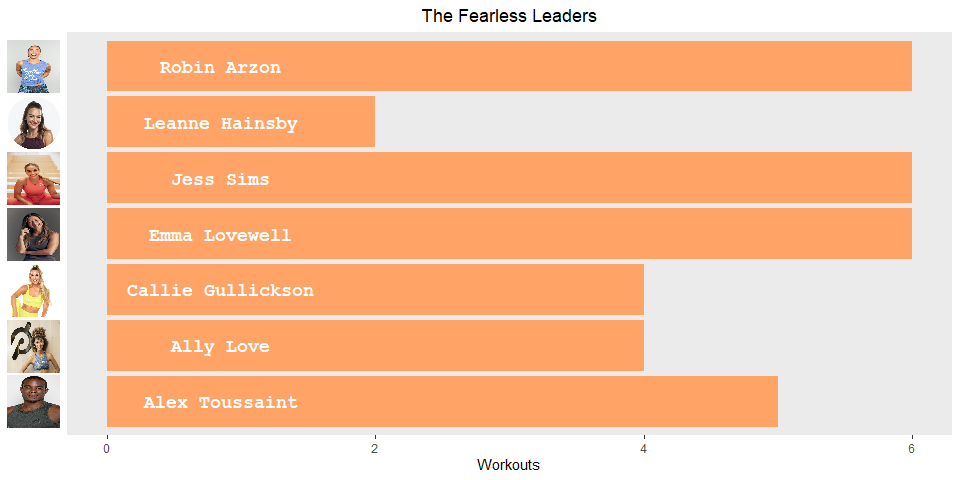
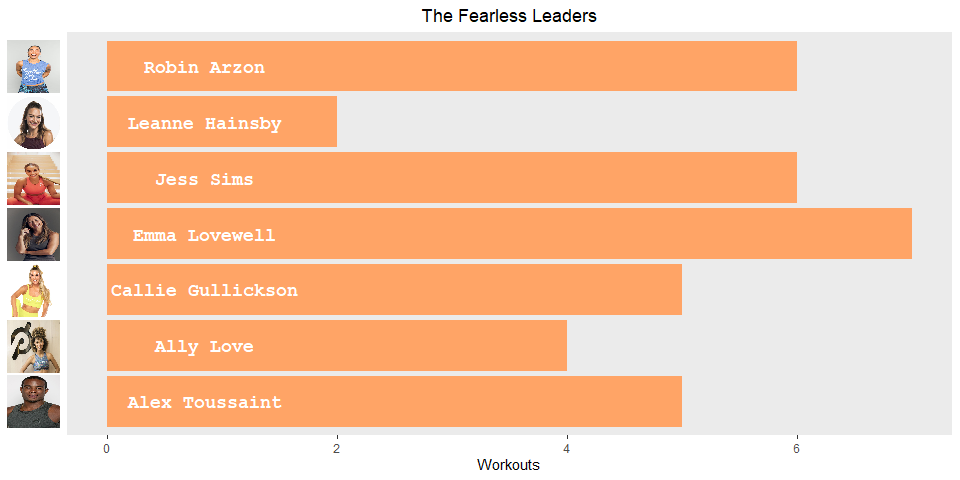
final updates to sweatmas

diff --git a/img/posts/sweatmas/muscles_table.html b/img/posts/sweatmas/muscles_table.html
@@ -2657,11 +2657,11 @@ l.each(u,function(a,b){l.fn.DataTable[a]=b});return u});
 </head>
 <body style="background-color: white;">
 <div id="htmlwidget_container">
-<div id="htmlwidget-c04013377d8eed28ef04" class="datatables html-widget" style="width:100%;height:auto;">
+<div id="htmlwidget-0c30e2e7cc7ed81905db" class="datatables html-widget" style="width:100%;height:auto;">
 
 </div>
 </div>
-<script type="application/json" data-for="htmlwidget-c04013377d8eed28ef04">{"x":{"filter":"none","vertical":false,"data":[["Hamstrings","Glutes","Quads","Calves","Core","Shoulders","Biceps","Triceps","Back","Chest"],[15.0740740740741,14.3333333333333,15.0344827586207,11.2272727272727,13.5666666666667,13.8181818181818,11.4285714285714,10.3333333333333,13.6,11]],"container":"<table class=\"display\">\n  <thead>\n    <tr>\n      <th> <\/th>\n      <th>Average Use (%)<\/th>\n    <\/tr>\n  <\/thead>\n<\/table>","options":{"dom":"t","columnDefs":[{"targets":1,"render":"function(data, type, row, meta) {\n    return type !== 'display' ? data : DTWidget.formatRound(data, 2, 3, \",\", \".\", null);\n  }"},{"className":"dt-right","targets":1},{"orderable":false,"targets":0}],"order":[],"autoWidth":false,"orderClasses":false,"rowCallback":"function(row, data, displayNum, displayIndex, dataIndex) {\nvar value=data[1]; $(this.api().cell(row, 1).node()).css({'background':isNaN(parseFloat(value)) || value <= 10.333333 ? '' : 'linear-gradient(90.000000deg, transparent ' + Math.max(15.074074 - value, 0)/4.740741 * 100 + '%, #D1FBD8 ' + Math.max(15.074074 - value, 0)/4.740741 * 100 + '%)'});\n}"}},"evals":["options.columnDefs.0.render","options.rowCallback"],"jsHooks":[]}</script>
-<script type="application/htmlwidget-sizing" data-for="htmlwidget-c04013377d8eed28ef04">{"viewer":{"width":"100%","height":"auto","padding":15,"fill":true},"browser":{"width":"100%","height":"auto","padding":40,"fill":false}}</script>
+<script type="application/json" data-for="htmlwidget-0c30e2e7cc7ed81905db">{"x":{"filter":"none","vertical":false,"data":[["Hamstrings","Glutes","Quads","Calves","Core","Shoulders","Biceps","Triceps","Back","Chest"],[15.1428571428571,14.4193548387097,15.1,11.2173913043478,13.4838709677419,14.25,11.4285714285714,10.1428571428571,14.5,10.6666666666667]],"container":"<table class=\"display\">\n  <thead>\n    <tr>\n      <th> <\/th>\n      <th>Average Use (%)<\/th>\n    <\/tr>\n  <\/thead>\n<\/table>","options":{"dom":"t","columnDefs":[{"targets":1,"render":"function(data, type, row, meta) {\n    return type !== 'display' ? data : DTWidget.formatRound(data, 2, 3, \",\", \".\", null);\n  }"},{"className":"dt-right","targets":1},{"orderable":false,"targets":0}],"order":[],"autoWidth":false,"orderClasses":false,"rowCallback":"function(row, data, displayNum, displayIndex, dataIndex) {\nvar value=data[1]; $(this.api().cell(row, 1).node()).css({'background':isNaN(parseFloat(value)) || value <= 10.142857 ? '' : 'linear-gradient(90.000000deg, transparent ' + Math.max(15.142857 - value, 0)/5.000000 * 100 + '%, #D1FBD8 ' + Math.max(15.142857 - value, 0)/5.000000 * 100 + '%)'});\n}"}},"evals":["options.columnDefs.0.render","options.rowCallback"],"jsHooks":[]}</script>
+<script type="application/htmlwidget-sizing" data-for="htmlwidget-0c30e2e7cc7ed81905db">{"viewer":{"width":"100%","height":"auto","padding":15,"fill":true},"browser":{"width":"100%","height":"auto","padding":40,"fill":false}}</script>
 </body>
 </html>

diff --git a/_posts/2023-01-01-sweatmas.md b/_posts/2023-01-01-sweatmas.md
@@ -1,9 +1,11 @@
 ---
 layout: post
 title: "Sweatmas 2022"
-subtitle: "25 Days of Sweat, Captured in One Post"
+subtitle: "31 Days of Wrokouts Summarized into One Post"
 background: '/img/posts/sweatmas/sweatmas-bg.jpg'
 ---
+
+
 
 Sweatmas
 ================
@@ -59,7 +61,7 @@ time into a better format.
 
 ***1899-12-30 10:45:00*** changes to ***10:45 AM***
 
-***1899-12-30 19:30:00*** changes to ***7:30 PM***
+***1899-12-30 19:30:00*** changes to ***07:30 PM***
 
 ``` r
 df_drew <- as.data.frame(read_sheet(".../google_sheets_link", sheet = "Drew"))
@@ -80,7 +82,7 @@ talk about the final 11 later on.
 str(df_drew[,1:9])
 ```
 
-    ## 'data.frame':    33 obs. of  9 variables:
+    ## 'data.frame':    35 obs. of  9 variables:
     ##  $ Day          : num  1 2 3 4 5 5 6 7 8 9 ...
     ##  $ Workout_Title: chr  "2000s Ride" "Full Body Strength" "House Ride" "Holiday Ride" ...
     ##  $ Workout_Type : chr  "Cycling" "Strength" "Cycling" "Cycling" ...
@@ -142,7 +144,7 @@ look up above, but below we can see an example of what this looks like.
 str(df_drew[,10:20])
 ```
 
-    ## 'data.frame':    33 obs. of  11 variables:
+    ## 'data.frame':    35 obs. of  11 variables:
     ##  $ Hamstrings: num  17 10 17 17 NA NA 17 14 17 14 ...
     ##  $ Glutes    : num  16 14 17 15 10 NA 15 14 17 15 ...
     ##  $ Quads     : num  17 12 17 17 10 NA 17 14 17 15 ...
@@ -259,7 +261,7 @@ ggplot(data = coords,
                       formatRound("Average Use (%)", digits = 2)
 ```
 
-<iframe src = "\img\posts\sweatmas\muscles_table.html" width = "750px" height = "500px"></iframe>
+<iframe src = '\img\posts\sweatmas\muscles_table.html' height = "500px" width = "750px"></iframe>
 
 All of these workouts take time, its all about making the time and not
 trying to find the time (shout-out Jess Sims). Well I wanted to see when
@@ -450,9 +452,9 @@ maybe even do a comparison!
 
 Here are the grand totals for Sweatmas 2022:
 
-***Total Workouts: 33***
+***Total Workouts: 35***
 
-***Total Calories Burned: 7505 kcal***
+***Total Calories Burned: 7855 kcal***
 
 ***Average Workout Duration: 33 min***
 
